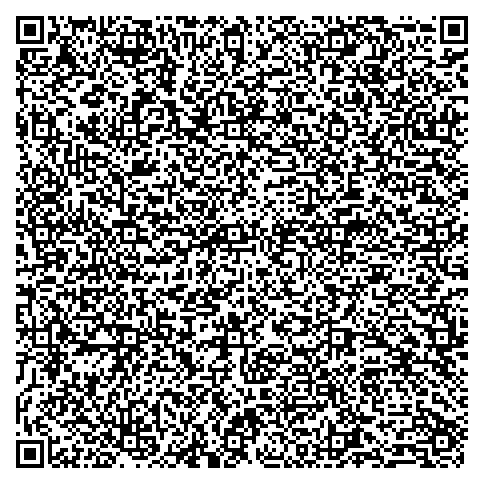
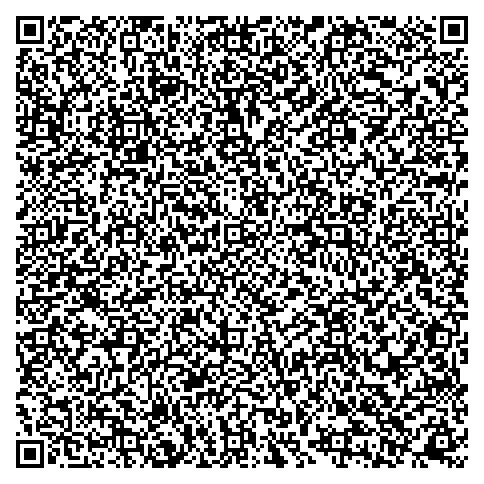
refactor: move hardcoded constants to json

diff --git a/packages/contracts/scripts/03-addVoter.ts b/packages/contracts/scripts/03-addVoter.ts
@@ -1,10 +1,10 @@
 // Imports
 // ========================================================
-import { ethers } from "hardhat";
 import { Identity } from "@semaphore-protocol/identity"
 import QRCode from 'qrcode'
 
 import { Contract as semaphoreVotingAddress } from "../frontend/SemaphoreVoting_address.json";
+import {schema, issuer} from "./constants.json"
 
 const proofRequest = {
     // 1. UUID for the request
@@ -24,7 +24,7 @@ const proofRequest = {
             // - hash of the function name from the ABI - b68967e2 = submitZKPResponse
             "method_id": "b68967e2",
             // - chain id of the network
-            "chain_id": 31337,
+            "chain_id": 1337,
             // - network name
             // "network": "polygon-mumbai"
             "network": "localhost"
@@ -46,7 +46,7 @@ const proofRequest = {
                     "query": {
                         // - whitelist of polygon ID platform identifier
                         "allowed_issuers": [
-                            "118FaDqXhUcL1eZSV1fgupqkHDqc5Vgh4HXDrhFZP",
+                            issuer,
                             // "*"
                         ],
                         // - conditions to be met with zk-query-language - see https://0xpolygonid.github.io/tutorials/verifier/verification-library/zk-query-language/
@@ -57,8 +57,8 @@ const proofRequest = {
                         },
                         // - schema of the proof and type, type is case-sensitive
                         "schema": {
-                            "url": "https://s3.eu-west-1.amazonaws.com/polygonid-schemas/46a5af96-d8ba-4fc8-90f3-d8e84ca83769.json-ld",
-                            "type": "TestDAOMember"
+                            "url": schema.url,
+                            "type": schema.type
                         }
                     }
                 }
@@ -72,7 +72,9 @@ async function main(): Promise<void> {
   const identity = new Identity("test")
   console.log(`Created identity with commitment ${identity.commitment}`)
 
-  await QRCode.toFile("qr.png", JSON.stringify(proofRequest), {errorCorrectionLevel: 'Q', type:'terminal', small: true})
+  const filename = "qr.png"
+  await QRCode.toFile(filename, JSON.stringify(proofRequest), {errorCorrectionLevel: 'Q', type:'terminal', small: true})
+  console.log(`QR code saved to ${filename}`)
 }
 
 main()

diff --git a/packages/contracts/scripts/01-deploy_SemaphoreVoting.ts b/packages/contracts/scripts/01-deploy_SemaphoreVoting.ts
@@ -1,6 +1,7 @@
 import { run, ethers } from "hardhat";
 import DeployHelper from "./deploy_helper";
 import { hexToBytes, fromLittleEndian } from "./helpers";
+import { schema } from "./constants.json"
 
 async function main(): Promise<void> {
   const [deployer] = await ethers.getSigners();
@@ -25,9 +26,7 @@ async function main(): Promise<void> {
   // - do not change for testnet
   const validatorAddress = "0xb1e86C4c687B85520eF4fd2a0d14e81970a15aFB";
 
-  const schemaHash = "901d35cefb577a4d2b2c55ee3e10be6d"; // extracted from PID Platform
-
-  const schemaEnd = fromLittleEndian(hexToBytes(schemaHash));
+  const schemaEnd = fromLittleEndian(hexToBytes(schema.hash));
   const query = {
     schema: ethers.BigNumber.from(schemaEnd),
     // slotIndex2 indicates the value stored as Attribute 1 inside the claim

diff --git a/packages/contracts/scripts/02-createPoll.ts b/packages/contracts/scripts/02-createPoll.ts
@@ -1,7 +1,6 @@
 import { ethers } from "hardhat";
 import { Contract as semaphoreVotingAddress } from "../frontend/SemaphoreVoting_address.json";
 
-// const pollId = ethers.utils.keccak256(ethers.utils.toUtf8Bytes("pollId"));
 const pollId = 1;
 const merkleTreeDepth = 20;
 

diff --git a/packages/contracts/README.md b/packages/contracts/README.md
@@ -1,13 +1,44 @@
-# Sample Hardhat Project
+# Anonymous voting using Semaphore + Polygon ID
 
-This project demonstrates a basic Hardhat use case. It comes with a sample contract, a test for that contract, and a script that deploys that contract.
+This project demonstrates a basic use case for anonymous voting. It uses Polygon ID for authentication and Semaphore for anonymous voting.
 
-Try running some of the following tasks:
+## How to run
 
-```shell
-npx hardhat help
-npx hardhat test
-GAS_REPORT=true npx hardhat test
-npx hardhat node
-npx hardhat run scripts/deploy.ts
+### Install dependencies
+
+```bash
+yarn install
+```
+
+### Setup
+
+#### Environment variables
+
+Copy the `.env.example` file to `.env` and fill in the values.
+
+```bash
+MNEMONIC=
+RPC_MUMBAI_URL=
+ETHERSCAN_API_KEY=
+```
+
+#### Polygon ID
+
+1. Go to https://platform-test.polygonid.com and create a claim schema.
+2. Generate QR code to issue claims and send to claimers.
+3. Scan the QR code on the Polygon ID app to issue a claim to yourself.
+
+### Run the server
+
+Run a local fork of the Polygon Mumbai testnet and deploy semaphore contracts.
+
+```bash
+yarn localnode
+yarn deployLocalnode
+```
+
+### Run the frontend
+
+```bash
+yarn react
 ```

diff --git a/README.md b/README.md
@@ -39,6 +39,8 @@ PAGEKITE_SUBDOMIAN=
 Run a local fork of the Polygon Mumbai testnet and deploy semaphore contracts. This also initiates a tunnel to the local server using pagekite at `https://${PAGEKITE_SUBDOMAIN}.pagekite.me`.
 
 ```bash
+cd packages/contracts
+
 yarn localnode
 yarn deployLocalnode
 ```
@@ -48,3 +50,7 @@ yarn deployLocalnode
 ```bash
 yarn react
 ```
+
+###
+
+Issuer is responsible for issuing a claim of whether a person is a member of a DAO and whether they're degen or not, not to do the actual voting.
